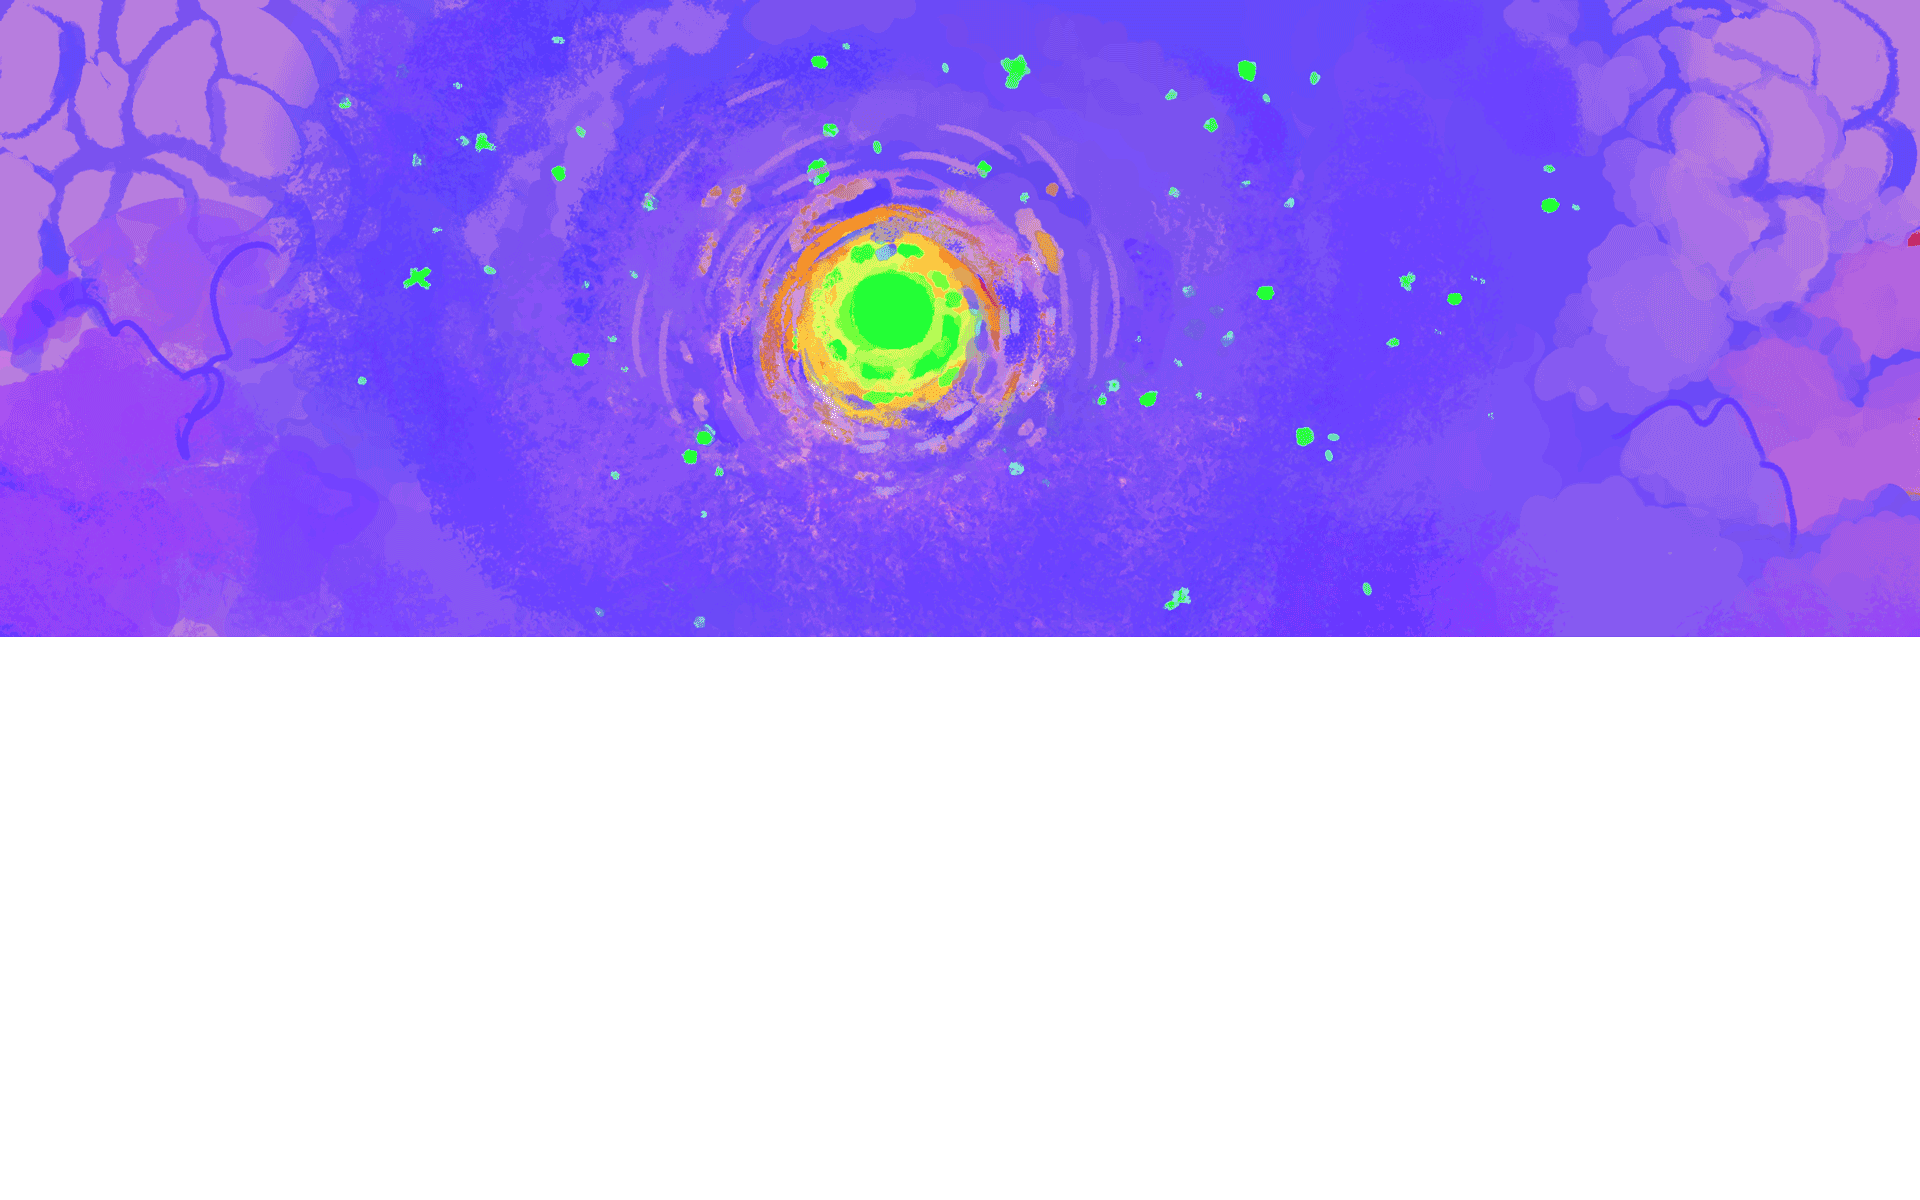
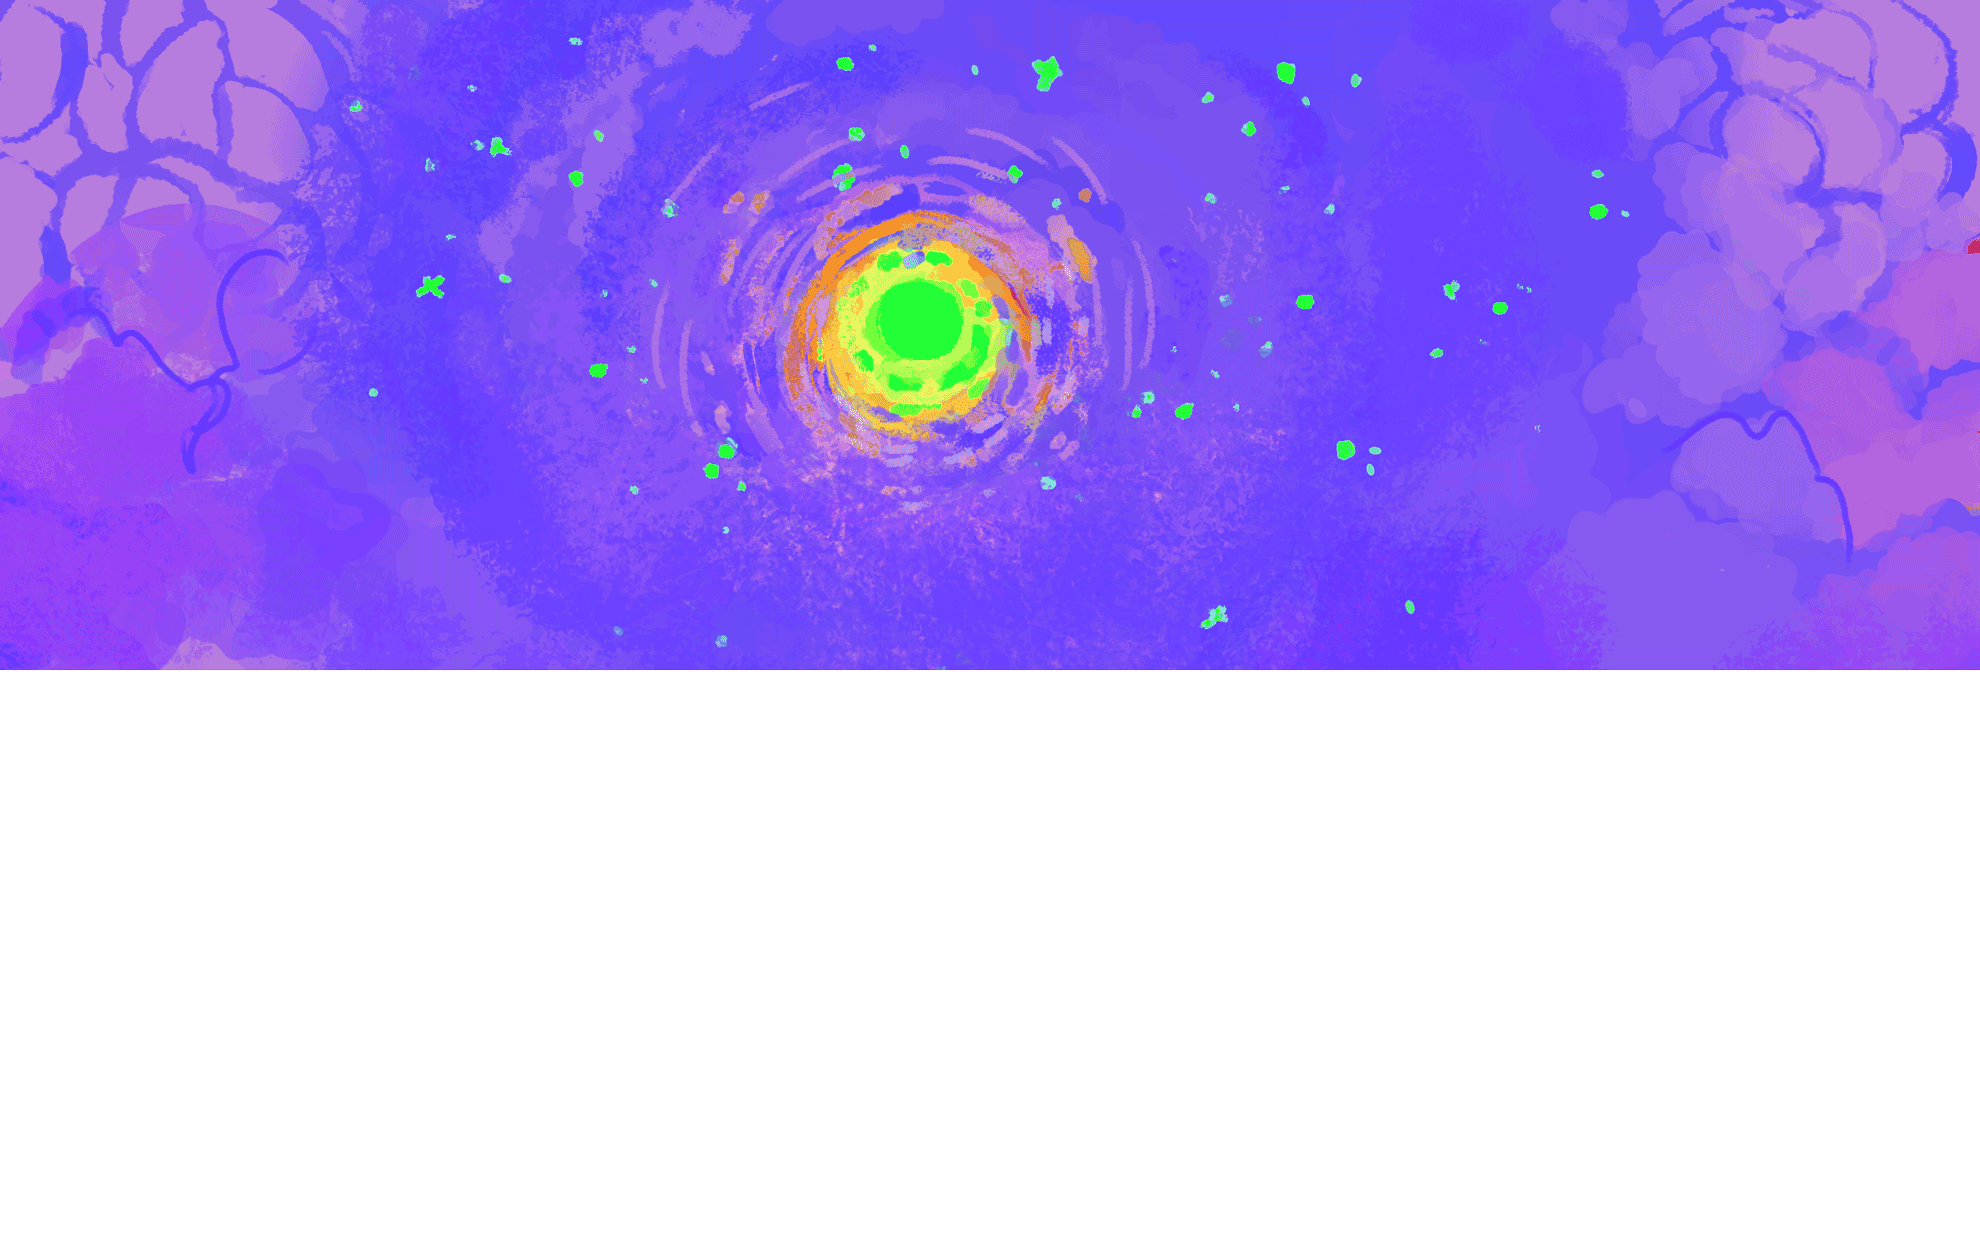
rearranged div to top of page

Changed region(s): [[0.0, 0.5242, 1.0, 0.555], [0.4062, 0.185, 0.5312, 0.37], [0.5312, 0.185, 0.5625, 0.2158]]

diff --git a/css/landing.css b/css/landing.css
@@ -1,4 +1,9 @@
 body {
+  margin: 0px;
+  overflow-x: hidden;
+}
+
+#content-container {
   background-image: url('splash.jpg');
   
   /* Background image is centered vertically and horizontally at all times */
@@ -86,15 +91,16 @@ i:hover {
 }
 
 #parallax-container{
-  height: auto;
+  height: 75vh;
   width: 100vw;
   position: relative;
   display: block;
+  background-color: black;
 }
 
 .layer0{
   background-image: url('../img/layer0.png');
-  background-size: cover;
+  background-size: contain;
   z-index: 10;
   width: 100%;
   position:absolute;
@@ -104,7 +110,7 @@ i:hover {
 
 .layer1{
   background-image: url('../img/layer1.png');
-  background-size: cover;
+  background-size: contain;
   height: auto;
   z-index: 11;
   position:absolute;
@@ -115,7 +121,7 @@ i:hover {
 
 .layer2{
   background-image: url('../img/layer2.png');
-  background-size: cover;
+  background-size: contain;
   height: auto;
   z-index: 12;
   position:absolute;
@@ -126,7 +132,7 @@ i:hover {
 
 .layer3{
   background-image: url('../img/layer3.png');
-  background-size: cover;
+  background-size: contain;
   height: auto;
   z-index: 13;
   position:absolute;

diff --git a/index.html b/index.html
@@ -28,11 +28,12 @@
 
 <body>
   <div id="parallax-container">
-    <div class="layer0 layer" data-type="parallax" data-depth="0.05"><img style="visibility:hidden; width: 100%;"src="img/layer0.png"></div>
     <div class="layer1 layer" data-type="parallax" data-depth="0.40"><img style="visibility:hidden; width: 100%;"src="img/layer1.png"></div>
     <div class="layer2 layer" data-type="parallax" data-depth="0.80"><img style="visibility:hidden; width: 100%;"src="img/layer2.png"></div>
     <div class="layer3 layer" data-type="parallax" data-depth="1.00"><img style="visibility:hidden; width: 100%;"src="img/layer3.png"></div>
+    <div class="layer0 layer" data-type="parallax" data-depth="0.05"><img style="visibility:hidden; width: 100%;"src="img/layer0.png"></div>
   </div>
+  <div id="content-container" data-depth="1.00">
   <div id="content">
     <div id="infotext">
       <h1>Daily Bruin</h1>
@@ -74,6 +75,7 @@
       
     </p>
     <br />
+  </div>
   </div>
   </div>
   <!--SCRIPTS-->
